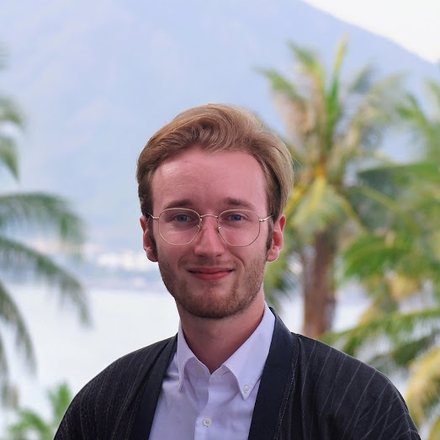
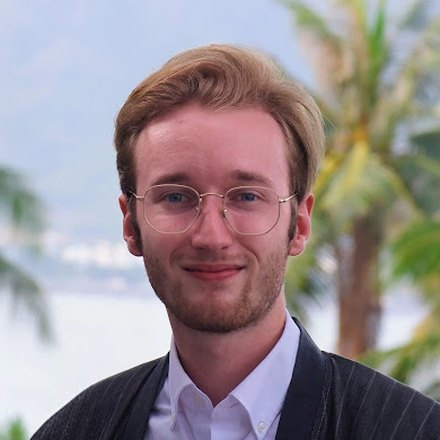
Recrop the portrait: centre the face and tighten the frame

diff --git a/index.html b/index.html
@@ -123,7 +123,7 @@
   .cta{display:flex;flex-wrap:wrap;gap:10px}
   .shot{border-radius:var(--r);overflow:hidden;border:1px solid var(--line);
     background:var(--surface-2);aspect-ratio:1/1.16}
-  .shot img{width:100%;height:100%;object-fit:cover;object-position:50% 22%}
+  .shot img{width:100%;height:100%;object-fit:cover;object-position:50% 45%}
   @media (max-width:820px){
     .hero{grid-template-columns:1fr;align-items:start;gap:28px}
     .shot{width:132px;aspect-ratio:1/1;border-radius:999px;order:-1}
